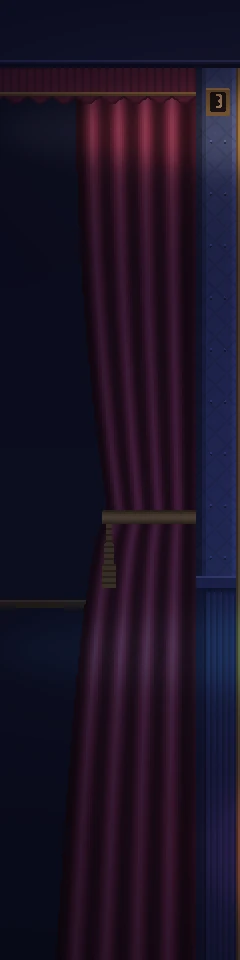
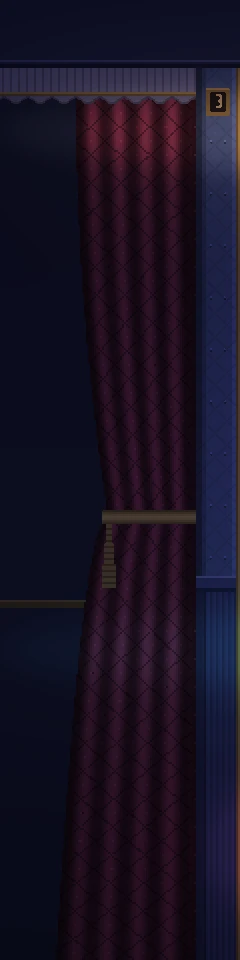
art: make the red curtain match the benches
The red curtain was a brighter, pinker velvet with its own sheen, and read as
a different material from the benches beside it.

It now takes the benches' upholstery: the backrests' darker red and their
tones, their diamond quilting with a button at each crossing, laid across the
cloth so that it gathers into the folds, and dark piping down its leading edge
like the cushions' front. Over it the pelmet is the headrest covers' pale
cloth, laid over the red the way the covers lie over the backrests. The teal
variant is unchanged.

Changed region(s): [[0.0, 0.0625, 0.8167, 0.1875], [0.7, 0.625, 0.7292, 0.7188], [0.4958, 0.6562, 0.525, 0.6875]]

diff --git a/tools/art/room.py b/tools/art/room.py
@@ -1149,7 +1149,7 @@ def table(g, rnd):
 FOREGROUND = os.environ.get('FOREGROUND', 'velvet')
 
 # Curtain colours: the benches' red, or the window curtains' green
-FG_CURTAIN = {'velvet': SEAT, 'teal': (58, 110, 96)}
+FG_CURTAIN = {'velvet': mul(SEAT, 0.84), 'teal': (58, 110, 96)}
 
 
 # A 3 on the pilaster's plate, as (row, column) from the glyph's top-left
@@ -1193,9 +1193,27 @@ def foreground_rgb(style):
         k = 0.5 + 0.72 * wave**1.3
         k *= 1 - 0.45 * np.clip(1 - f / 0.14, 0, 1)  # in the pilaster's shadow
         k *= 1 - 0.35 * np.clip((f - 0.82) / 0.18, 0, 1)  # turning away at the edge
-        c = curtain[None, :] * k[:, None]
-        sheen = np.clip((wave - 0.9) / 0.1, 0, 1)[:, None] * 0.22  # velvet catches light on the crests
-        out[row, cols] = c * (1 - sheen) + f32((255, 196, 206)) * sheen * 0.8
+        if style == 'velvet':
+            # the benches' upholstery: the same red in the same tones as their
+            # backrests, and their diamond quilting with a button at each
+            # crossing, laid out across the cloth so that it gathers into the
+            # folds with it
+            cu = f * 56.0
+            m = np.full(len(cols), 1.0, np.float32)
+            d1, d2 = (cu + row) % 14, (cu - row) % 14
+            m[(d1 < 1) | (d2 < 1)] = 0.62
+            btn = (np.abs(d1 - 7) < 0.5) & (np.abs(d2 - 7) < 0.5)
+            m[btn] = 0.45
+            out[row, cols] = curtain[None, :] * (k * m)[:, None]
+            if row > y_top:
+                up = (np.abs(((cu + row - 1) % 14) - 7) < 0.5) & (np.abs(((cu - row + 1) % 14) - 7) < 0.5)
+                out[row - 1, cols[up]] = curtain * 1.25 * k[up, None]
+            # piping down the leading edge, as along the cushions' front
+            out[row, cols[f < 0.035]] = curtain * 0.4
+        else:
+            c = curtain[None, :] * k[:, None]
+            sheen = np.clip((wave - 0.9) / 0.1, 0, 1)[:, None] * 0.22  # velvet catches light on the crests
+            out[row, cols] = c * (1 - sheen) + f32((255, 196, 206)) * sheen * 0.8
     # tie-back: a brass rope across the folds, and its tassel at the outer end
     rope = [0.62, 0.86, 1.08, 1.22, 1.12, 0.92, 0.7]
     for r, k in enumerate(rope):
@@ -1204,8 +1222,10 @@ def foreground_rgb(style):
         w = 2 + min(4, (r - 262) // 5)
         x0 = u_in + tie - 1
         out[r, x0 - w // 2 : x0 + w // 2 + 1] = f32(BRASS) * (0.9 if r % 3 else 0.6)
-    # pelmet over the rod: velvet with brass piping and a scalloped edge
-    pel = curtain * 0.92
+    # pelmet over the rod, with brass piping and a scalloped edge. Over the
+    # velvet it is the headrest covers' pale cloth, laid over the red the way
+    # they are laid over the backrests
+    pel = f32((204, 198, 222)) * 0.9 if style == 'velvet' else curtain * 0.92
     out[34:46, 22:] = pel
     for c in range(22, U, 4):
         out[34:46, c] = pel * 0.78
